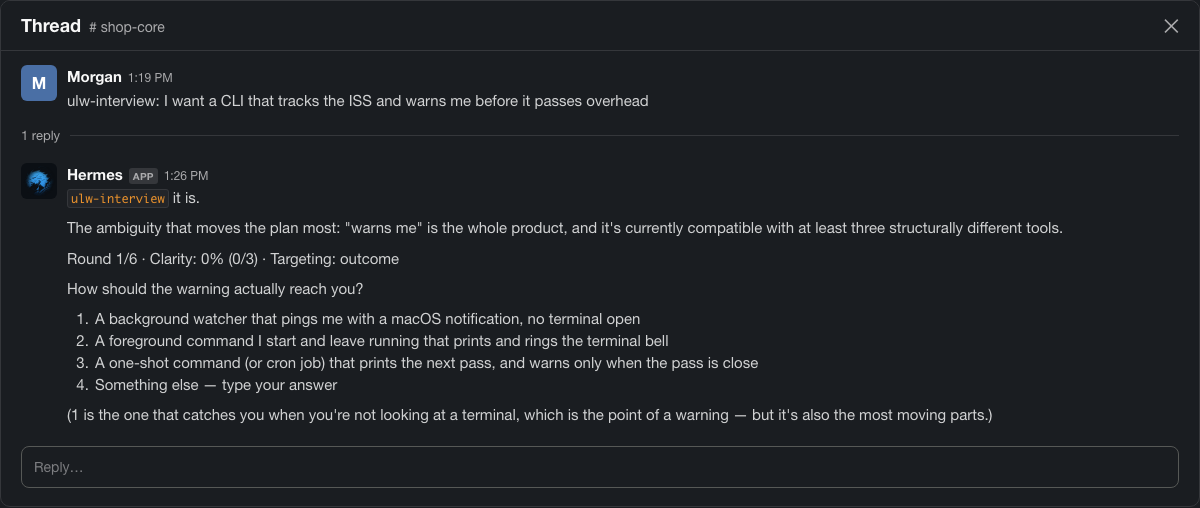
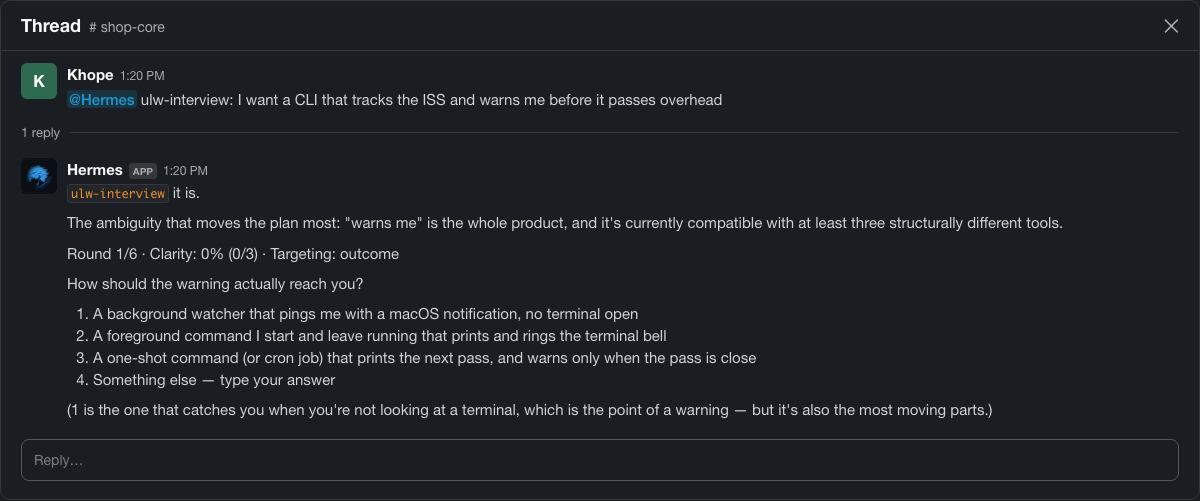
docs(readme): add a real ulw-work run as a Slack thread, mention the bot
Owner follow-up on the Slack illustrations. The user in both threads is
now Khope and every user message @-mentions the bot the way Slack draws a
mention (@Hermes pill before the text). A second Slack illustration shows
a ulw-work run: the lane split, one row per lane with its routed category
and model, then the final summary.

The ulw-work data is a real run in the same demo home and project
(session 20260929_143553_122cee, after the ulw-plan artifact was accepted
with omh hermes plan-accept --executor hermes). Everything shown comes
from that session, read read-only from state.db:
- the split sentence, the fallback note and the final summary are cut
  (never reworded) from assistant messages 142, 158 and 299;
- lane rows come from the child sessions (parent_session_id = the run):
  Lane A on claude-fable-5-1 ended in 0s (message 158: HTTP 400, chain
  head not served on this account), Lane A re-dispatched and lanes B-E on
  moonshotai/kimi-k3-ultrafast, all agent_close; the routed category is
  capable in every omh_delegate_route result (135/154/183/185/238); Lane F
  was run by the coordinator itself (message 242) on
  deepseek/deepseek-v4.1-flash-ultrafast.

The per-model glyphs are OMH's shipped vendor table
(src/catalogs/model_vendor_glyphs.py, used by the coding status board):
Claude 🟠, DeepSeek 🔵, Kimi 🌙. The lane-row layout itself is the
illustration's; no shipped renderer draws a Hermes-native delegate_task
run as a Slack thread.
[…]

diff --git a/site/i18n.js b/site/i18n.js
@@ -260,10 +260,22 @@ window.OMH_I18N = {
       zh: "Slack 线程示意图：用户发布关于 ISS 过境提醒 CLI 的 ulw-interview 提示，Hermes 应用在线程中回复：共 6 轮中的第 1 轮、清晰度评分，以及一个带四个选项的问题；回复文字取自 TUI 实际运行"
     },
     "ulwex.slack.caption": {
-      en: "The same ulw-interview reply, as it reads in a Slack thread (illustration).",
-      ko: "같은 ulw-interview 답변을 Slack 스레드에서 본 모습 (일러스트).",
-      ja: "同じ ulw-interview の返信を Slack スレッドで見た様子（イラスト）。",
-      zh: "同一条 ulw-interview 回复在 Slack 线程中的样子（示意图）。"
+      en: "A real ulw-interview reply, as it reads in a Slack thread (illustration).",
+      ko: "실제 ulw-interview 답변을 Slack 스레드에서 본 모습 (일러스트).",
+      ja: "実際の ulw-interview の返信を Slack スレッドで見た様子（イラスト）。",
+      zh: "一条真实的 ulw-interview 回复在 Slack 线程中的样子（示意图）。"
+    },
+    "ulwex.slackwork.alt": {
+      en: "Illustration of a Slack thread built from a real ulw-work run: Hermes locks six lanes, one row per lane with the model-vendor glyph, the routed category and the model (the first Lane A attempt on claude-fable-5-1 failed with HTTP 400 and was re-dispatched on kimi-k3-ultrafast; lanes B to E ran on kimi-k3-ultrafast; Lane F ran on Hermes' own deepseek model), then the before/after dependency-check summary",
+      ko: "실제 ulw-work 실행으로 만든 Slack 스레드 일러스트: Hermes가 여섯 레인을 확정하고, 레인마다 모델 벤더 글리프, 라우팅된 카테고리, 모델을 한 줄로 보여줍니다(첫 Lane A 시도는 claude-fable-5-1에서 HTTP 400으로 실패해 kimi-k3-ultrafast로 재디스패치, B~E는 kimi-k3-ultrafast, F는 Hermes 자신의 deepseek 모델). 마지막에 의존성 검사 전후 요약이 나옵니다",
+      ja: "実際の ulw-work 実行から作った Slack スレッドのイラスト：Hermes が六つのレーンを確定し、レーンごとにモデルベンダーのグリフ、ルーティングされたカテゴリ、モデルを 1 行で表示（最初の Lane A は claude-fable-5-1 で HTTP 400 により失敗し kimi-k3-ultrafast で再ディスパッチ、B〜E は kimi-k3-ultrafast、F は Hermes 自身の deepseek モデル）。最後に依存チェックの前後サマリー",
+      zh: "根据一次真实 ulw-work 运行制作的 Slack 线程示意图：Hermes 锁定六条车道，每条一行，显示模型厂商图标、路由到的类别和模型（第一次 Lane A 在 claude-fable-5-1 上因 HTTP 400 失败，改派到 kimi-k3-ultrafast；B 到 E 在 kimi-k3-ultrafast 上运行；F 由 Hermes 自己的 deepseek 模型运行），最后是依赖检查的前后对比"
+    },
+    "ulwex.slackwork.caption": {
+      en: "A real ulw-work run, as it reads in a Slack thread (illustration): one row per lane with its routed category and model, colored by model vendor.",
+      ko: "실제 ulw-work 실행을 Slack 스레드에서 본 모습 (일러스트): 레인마다 라우팅된 카테고리와 모델을 한 줄로, 모델 벤더별 색으로 표시.",
+      ja: "実際の ulw-work 実行を Slack スレッドで見た様子（イラスト）：レーンごとにルーティングされたカテゴリとモデルを 1 行で、モデルのベンダー別の色で表示。",
+      zh: "一次真实的 ulw-work 运行在 Slack 线程中的样子（示意图）：每条车道一行，显示路由到的类别和模型，并按模型厂商着色。"
     },
     "ulwex.maestro": {
       en: "Name the coding agent and ulw-maestro builds each prompt from that agent's own installed skills, dispatches it, and adds a steerable row per unit to the OMH HUD. It never picks the agent for you, and it never merges.",

diff --git a/site/index.html b/site/index.html
@@ -595,7 +595,21 @@
           </div>
         </figure>
 
-        <p class="ev-note" data-reveal data-i18n="ulwex.slack.caption">The same ulw-interview reply, as it reads in a Slack thread (illustration).</p>
+        <p class="ev-note" data-reveal data-i18n="ulwex.slack.caption">A real ulw-interview reply, as it reads in a Slack thread (illustration).</p>
+
+        <figure class="showcase" data-reveal>
+          <div class="showcase__frame">
+            <img
+              src="assets/omh-slack-ulw-work.png"
+              alt="Illustration of a Slack thread built from a real ulw-work run: Hermes locks six lanes, one row per lane with the model-vendor glyph, the routed category and the model (the first Lane A attempt on claude-fable-5-1 failed with HTTP 400 and was re-dispatched on kimi-k3-ultrafast; lanes B to E ran on kimi-k3-ultrafast; Lane F ran on Hermes' own deepseek model), then the before/after dependency-check summary"
+              data-i18n-attr="alt:ulwex.slackwork.alt"
+              loading="lazy"
+              decoding="async"
+            >
+          </div>
+        </figure>
+
+        <p class="ev-note" data-reveal data-i18n="ulwex.slackwork.caption">A real ulw-work run, as it reads in a Slack thread (illustration): one row per lane with its routed category and model, colored by model vendor.</p>
 
         <p class="section__lead" data-reveal data-i18n="ulwex.maestro">Name the coding agent and ulw-maestro builds each prompt from that agent's own installed skills, dispatches it, and adds a steerable row per unit to the OMH HUD. It never picks the agent for you, and it never merges.</p>
 

diff --git a/tests/test_router_content.py b/tests/test_router_content.py
@@ -4281,19 +4281,20 @@ class RouterContentTests(unittest.TestCase):
         # The landing page carries the character mark four times (header,
         # hero, Hermes executor card, footer) plus two product captures --
         # the terminal boot banner and the /omh-model chain picker under
-        # Recommended chains -- plus the three ulw usage-example figures (the
-        # real ulw-plan TUI capture, the Slack-thread illustration of the
-        # real ulw-interview reply, and the labelled ulw-maestro
-        # illustration) under the ulw family, and nothing else. The exact
-        # count keeps decorative images off the page; the three surface demos
-        # (the TUI ultrawork run, the Desktop run, the messenger card) are
-        # <video> elements.
-        self.assertEqual(site.count("<img"), 9)
+        # Recommended chains -- plus the four ulw usage-example figures (the
+        # real ulw-plan TUI capture, the Slack-thread illustrations of the
+        # real ulw-interview reply and the real ulw-work run, and the
+        # labelled ulw-maestro illustration) under the ulw family, and
+        # nothing else. The exact count keeps decorative images off the page;
+        # the three surface demos (the TUI ultrawork run, the Desktop run,
+        # the messenger card) are <video> elements.
+        self.assertEqual(site.count("<img"), 10)
         self.assertEqual(site.count('src="assets/omh-character-mask.png"'), 4)
         self.assertEqual(site.count('src="assets/omh-terminal-boot-banner.png"'), 1)
         self.assertEqual(site.count('src="assets/omh-model-tui.png"'), 1)
         self.assertEqual(site.count('src="assets/omh-terminal-ulw-plan-refactor.png"'), 1)
         self.assertEqual(site.count('src="assets/omh-slack-ulw-interview.png"'), 1)
+        self.assertEqual(site.count('src="assets/omh-slack-ulw-work.png"'), 1)
         self.assertEqual(site.count('src="assets/omh-ulw-maestro-dispatch.svg"'), 1)
         self.assertEqual(site.count("<video"), 3)
         for stem in ("hermes-cli", "hermes-desktop", "hermes-messenger"):

diff --git a/README.ja.md b/README.ja.md
@@ -468,7 +468,12 @@ Hermes のプロンプトにこう入力します。`ulw-` の接頭辞が workf
 
 <p align="center">
   <img src="assets/omh-slack-ulw-interview.png" alt="Slack スレッドのイラスト：ユーザーが ISS 通過通知 CLI についての ulw-interview プロンプトを投稿し、Hermes アプリがスレッドで全 6 ラウンド中ラウンド 1、明確度スコア、四つの選択肢を持つ一つの質問で返信します。返信の文面は TUI 実行で得た実際のものです" width="900">
-  <br><sub>同じ ulw-interview の返信を Slack スレッドで見た様子（イラスト）</sub>
+  <br><sub>実際の ulw-interview の返信を Slack スレッドで見た様子（イラスト）</sub>
+</p>
+
+<p align="center">
+  <img src="assets/omh-slack-ulw-work.png" alt="実際の ulw-work 実行から作った Slack スレッドのイラスト：Hermes が六つのレーンを確定し、レーンごとにモデルベンダーのグリフ、ルーティングされたカテゴリ、モデルを 1 行で表示（最初の Lane A は claude-fable-5-1 で HTTP 400 により失敗し kimi-k3-ultrafast で再ディスパッチ、B〜E は kimi-k3-ultrafast、F は Hermes 自身の deepseek モデル）。最後に依存チェックの前後サマリー" width="900">
+  <br><sub>実際の ulw-work 実行を Slack スレッドで見た様子（イラスト）：レーンごとにルーティングされたカテゴリとモデルを 1 行で、モデルのベンダー別の色で表示</sub>
 </p>
 
 ### Claude Code と Codex に仕事を渡す

diff --git a/README.zh.md b/README.zh.md
@@ -456,7 +456,12 @@ Do not replace the resolved SHA with main. Execute the pinned protocol's OS-appr
 
 <p align="center">
   <img src="assets/omh-slack-ulw-interview.png" alt="Slack 线程示意图：用户发布关于 ISS 过境提醒 CLI 的 ulw-interview 提示，Hermes 应用在线程中回复：共 6 轮中的第 1 轮、清晰度评分，以及一个带四个选项的问题；回复文字取自 TUI 实际运行" width="900">
-  <br><sub>同一条 ulw-interview 回复在 Slack 线程中的样子（示意图）</sub>
+  <br><sub>一条真实的 ulw-interview 回复在 Slack 线程中的样子（示意图）</sub>
+</p>
+
+<p align="center">
+  <img src="assets/omh-slack-ulw-work.png" alt="根据一次真实 ulw-work 运行制作的 Slack 线程示意图：Hermes 锁定六条车道，每条一行，显示模型厂商图标、路由到的类别和模型（第一次 Lane A 在 claude-fable-5-1 上因 HTTP 400 失败，改派到 kimi-k3-ultrafast；B 到 E 在 kimi-k3-ultrafast 上运行；F 由 Hermes 自己的 deepseek 模型运行），最后是依赖检查的前后对比" width="900">
+  <br><sub>一次真实的 ulw-work 运行在 Slack 线程中的样子（示意图）：每条车道一行，显示路由到的类别和模型，并按模型厂商着色</sub>
 </p>
 
 ### 把工作交给 Claude Code 和 Codex

diff --git a/README.md b/README.md
@@ -570,7 +570,12 @@ edit the same file.
 
 <p align="center">
   <img src="assets/omh-slack-ulw-interview.png" alt="Illustration of a Slack thread: a user posts a ulw-interview prompt about an ISS pass-warning CLI and the Hermes app replies in the thread with round 1 of 6, a clarity score, and one question with four options; the reply text is the real one from the TUI run" width="900">
-  <br><sub>The same ulw-interview reply, as it reads in a Slack thread (illustration)</sub>
+  <br><sub>A real ulw-interview reply, as it reads in a Slack thread (illustration)</sub>
+</p>
+
+<p align="center">
+  <img src="assets/omh-slack-ulw-work.png" alt="Illustration of a Slack thread built from a real ulw-work run: Hermes locks six lanes, one row per lane with the model-vendor glyph, the routed category and the model (the first Lane A attempt on claude-fable-5-1 failed with HTTP 400 and was re-dispatched on kimi-k3-ultrafast; lanes B to E ran on kimi-k3-ultrafast; Lane F ran on Hermes' own deepseek model), then the before/after dependency-check summary" width="900">
+  <br><sub>A real ulw-work run, as it reads in a Slack thread (illustration): one row per lane with its routed category and model, colored by model vendor</sub>
 </p>
 
 ### Hand work to Claude Code and Codex

diff --git a/CHANGELOG.md b/CHANGELOG.md
@@ -10,8 +10,10 @@ All notable changes will be documented here.
   `ulw-work` to run the accepted plan, `ulw-loop` to finish against a named
   gate, and a `ulw-maestro` prompt that dispatches one unit to Claude Code and
   one to Codex. A real Hermes TUI capture of a `ulw-plan` answer (target
-  dependency graph and lane order), a Slack-thread illustration carrying the
-  real reply of a `ulw-interview` first round, and a labelled `ulw-maestro`
+  dependency graph and lane order), Slack-thread illustrations carrying the
+  real reply of a `ulw-interview` first round and a real `ulw-work` run (one
+  row per lane with its routed category and model, marked with the model
+  vendor glyphs from `model_vendor_glyphs`), and a labelled `ulw-maestro`
   illustration sit beside them. The generated inventory regions are
   unchanged.
 
